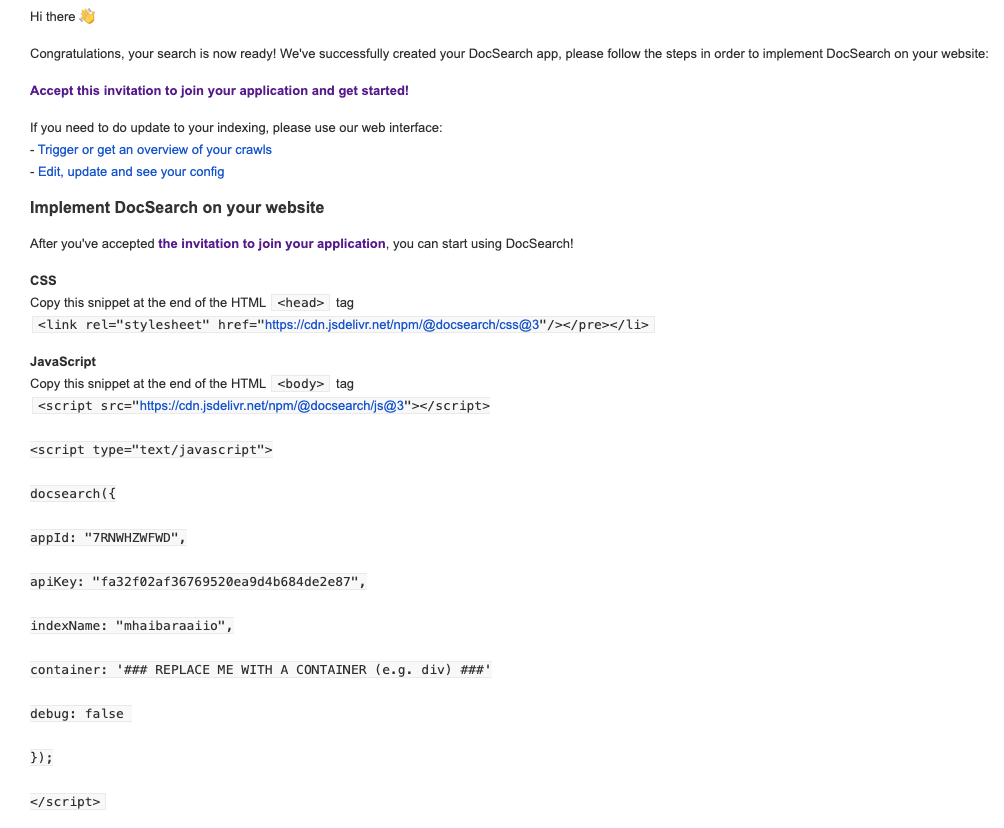
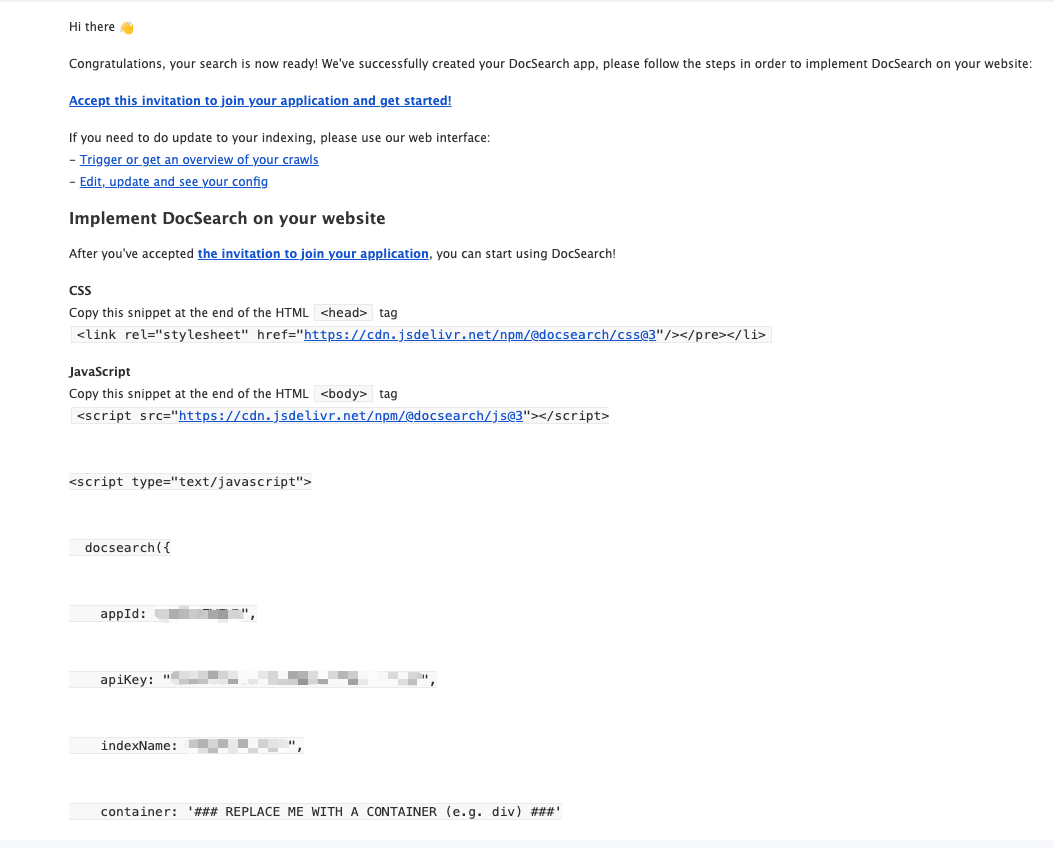
algolia实时搜索

diff --git a/docs/.vitepress/config/index.ts b/docs/.vitepress/config/index.ts
@@ -88,7 +88,7 @@ export default defineConfig({
       provider: 'algolia',
       options: {
         appId: '7RNWHZWFWD',
-        apiKey: 'fa32f02af36769520ea9d4b684de2e87',
+        apiKey: 'f36cf64a8411a3cce4a9098eaa862ead',
         indexName: 'mhaibaraaiio',
         ...algoliaSearch,
       },

diff --git a/docs/guide/algolia-search.md b/docs/guide/algolia-search.md
@@ -8,9 +8,17 @@ VitePress 支持使用 [Algolia DocSearch](https://docsearch.algolia.com/docs/wh
 
 ## 申请通过后，会收到邮件，邮件中包含了 `API Key` 和 `Index Name`
 
-在 [Algolia 官网](https://dashboard.algolia.com/) 中可以查看到自己的 `Application ID` 和 `API Key`。
+需要回复邮件确认申请通过，点击链接到官网注册账号。
 
 ![Algolia DocSearch 申请通过图片](/algolia/apply-reply.png)
+
+在 [Algolia 官网](https://dashboard.algolia.com/) 中可以查看到自己的 `Application ID` 和 `API Key`。
+
+::: warning 注意
+`Write API Key` 是私有 `API` 密钥，用于创建，更新和删除您的索引，不要泄露！
+:::
+
+![查看 api-key ](/algolia/api-key.png)
 
 ## 在 VitePress 项目中配置 Algolia DocSearch
 
@@ -27,9 +35,9 @@ export default defineConfig({
     search: {
       provider: 'algolia',
       options: {
-        appId: '7RNWHZWFWD',
-        apiKey: 'fa32f02af36769520ea9d4b684de2e87',
-        indexName: 'mhaibaraaiio',
+        appId: 'xxx',
+        apiKey: 'xxx',
+        indexName: 'xxx',
 
         // 中文转换
         ...algoliaSearch,
@@ -42,3 +50,50 @@ export default defineConfig({
 <<< @/.vitepress/config/algolia.ts
 
 :::
+
+## 添加实时更新索引
+
+### Github Secrets 中添加私钥
+
+将上述获取的 `ALGOLIA_APP_ID` 和 `ALGOLIA_API_KEY` 添加到 Github 项目的 Secrets 中，在 **CI** 脚本中使用。
+
+* `ALGOLIA_APP_ID`：取 **Algolia** 的 `Application ID`
+* `ALGOLIA_API_KEY`：取 **Algolia** 的 `Write API Key`
+
+![github-secret 配置图片](/algolia/github-secret.png)
+
+### 创建 crawlerConfig.json 文件
+
+在项目根目录下新建爬虫 `crawlerConfig.json` 文件，配置需要爬取的页面。
+
+```json
+{
+  "index_name": "xxx",  //索引名称
+  "start_urls": ["/"],  //网站地址
+  "rateLimit": 8,
+  "maxDepth": 10,
+  "selectors": {
+    "lvl0": {
+      "selector": "",
+      "defaultValue": "Documentation"
+    },
+    "lvl1": ".content h1",
+    "lvl2": ".content h2",
+    "lvl3": ".content h3",
+    "lvl4": ".content h4",
+    "lvl5": ".content h5",
+    "content": ".content p, .content li"
+  },
+  "selectors_exclude": [
+    "aside",
+    ".page-footer",
+    ".next-and-prev-link",
+    ".table-of-contents"
+  ],
+  "js_render": true
+}
+```
+
+### 创建 CI 脚本
+
+在项目根目录 `.github/workflows` 文件夹下创建 `del` 文件。
